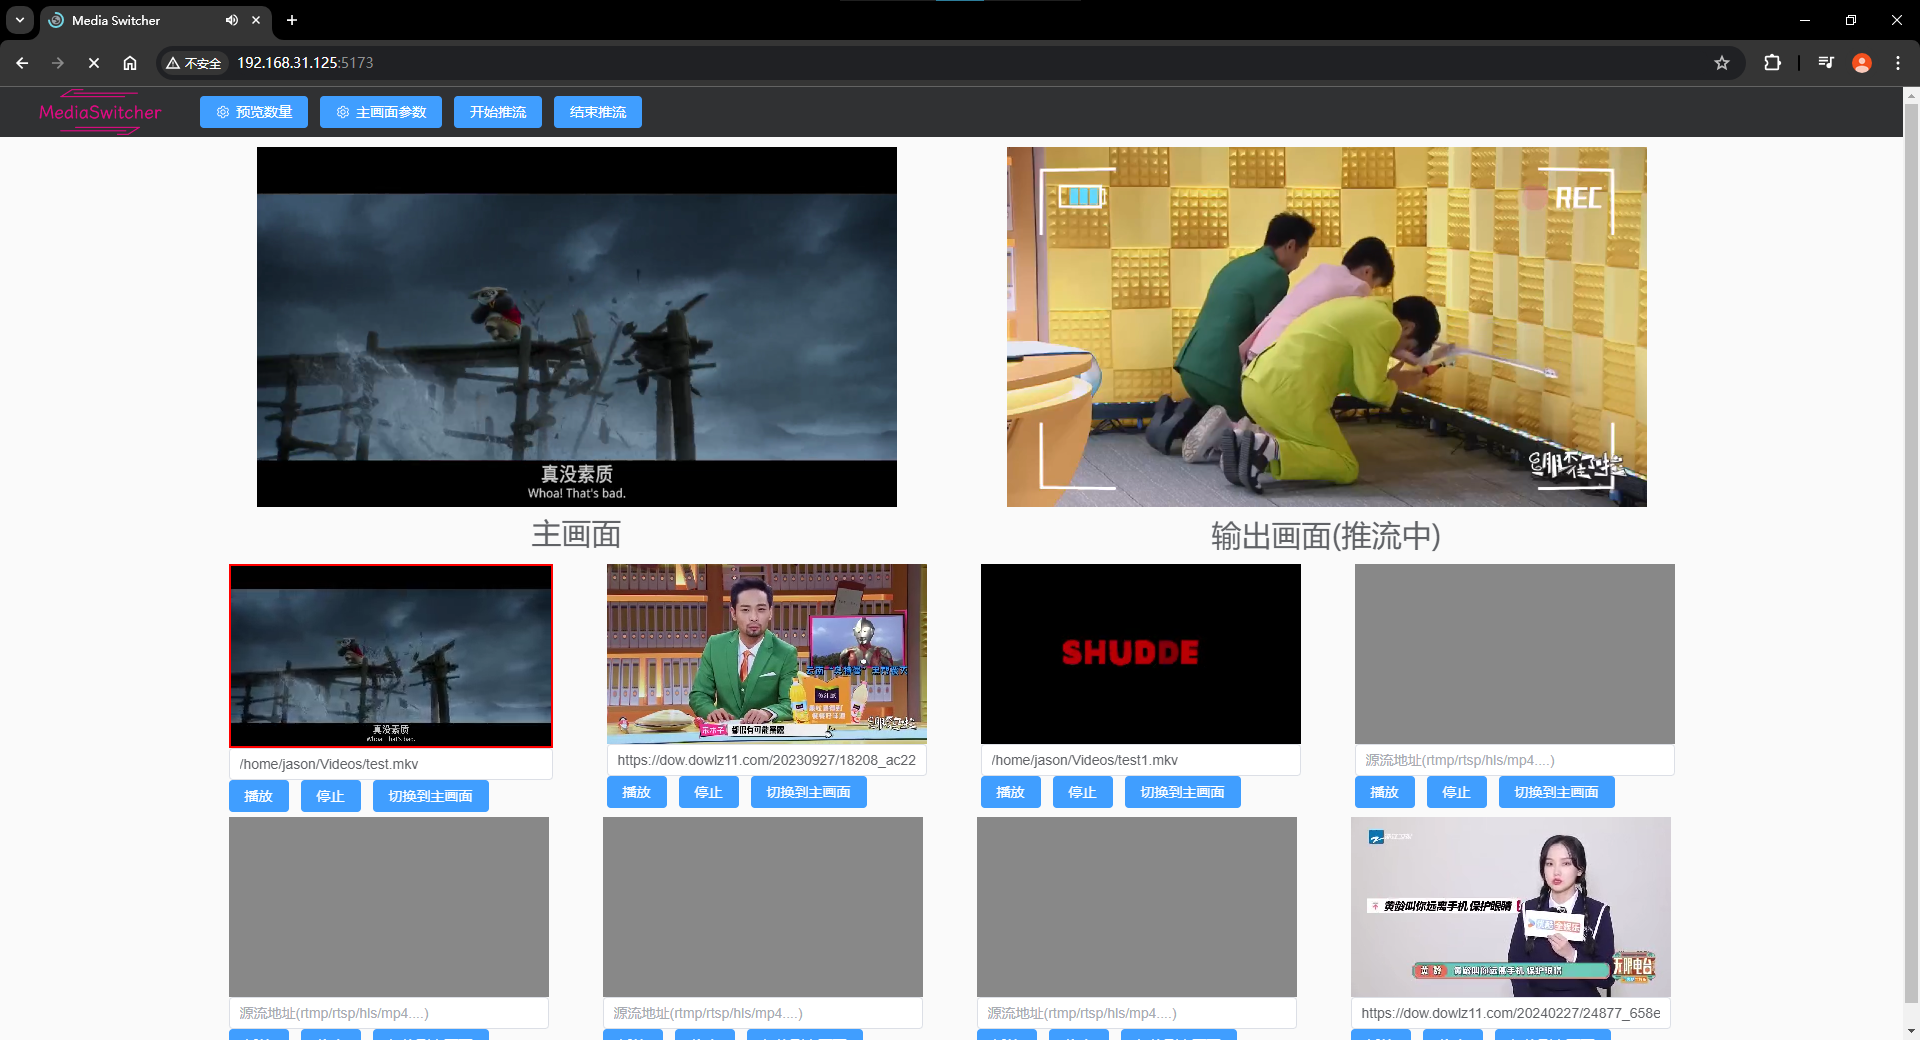
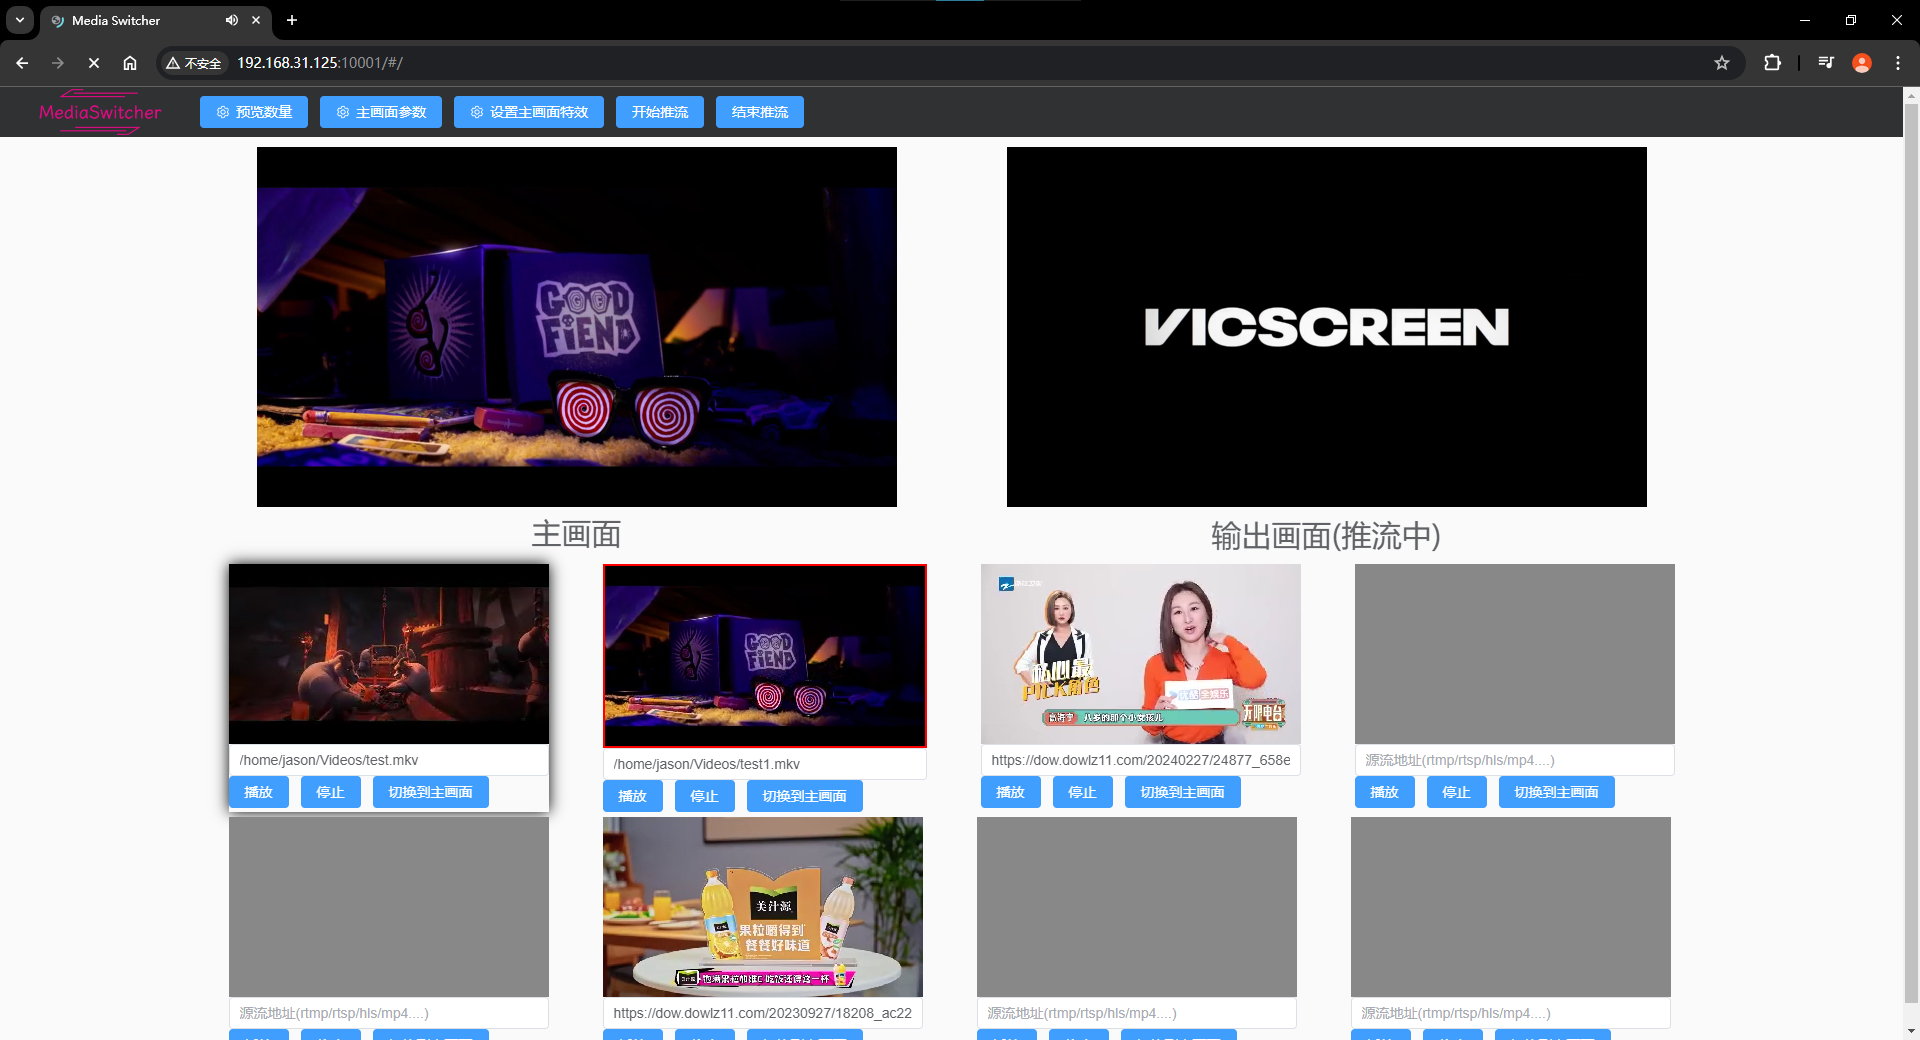
修改README.md

diff --git a/README.md b/README.md
@@ -1,10 +1,22 @@
 ## 直播画面切换平台
 
 可以设置多个源流画面，选择其中一个推流出去（目前只支持 rtmp 推流）<br>
+
 小预览画面幅面固定是 320x180，帧率 15<br>
+
 主画面可以自己设置幅面，帧率，码率，推流地址和播流地址<br>
+
+主画面可以设置特效（叠加水印，文字，图片等等）<br>
+
 页面上输出画面播放 的是 m3u8 流（延迟有点大），如果你想播 rtmp 可以直接用客户端播放器播<br>
+
 由于系统是对所有源流进行解码，做了视频幅面帧率变换和音频重采样，最后编码成 h264 和 aac 推流出去，所以对硬件资源要求比较高
+
+## 依赖项目
+
+特效编辑器依赖<br>
+https://github.com/nihaojob/vue-fabric-editor<br>
+感谢大佬的项目
 
 ## 系统要求
 
@@ -37,3 +49,7 @@ bash ./PrepareEnv.sh
 ![](./pic/2.png)
 
 ![](./pic/3.png)
+
+![](./pic/4.png)
+
+![](./pic/5.png)
